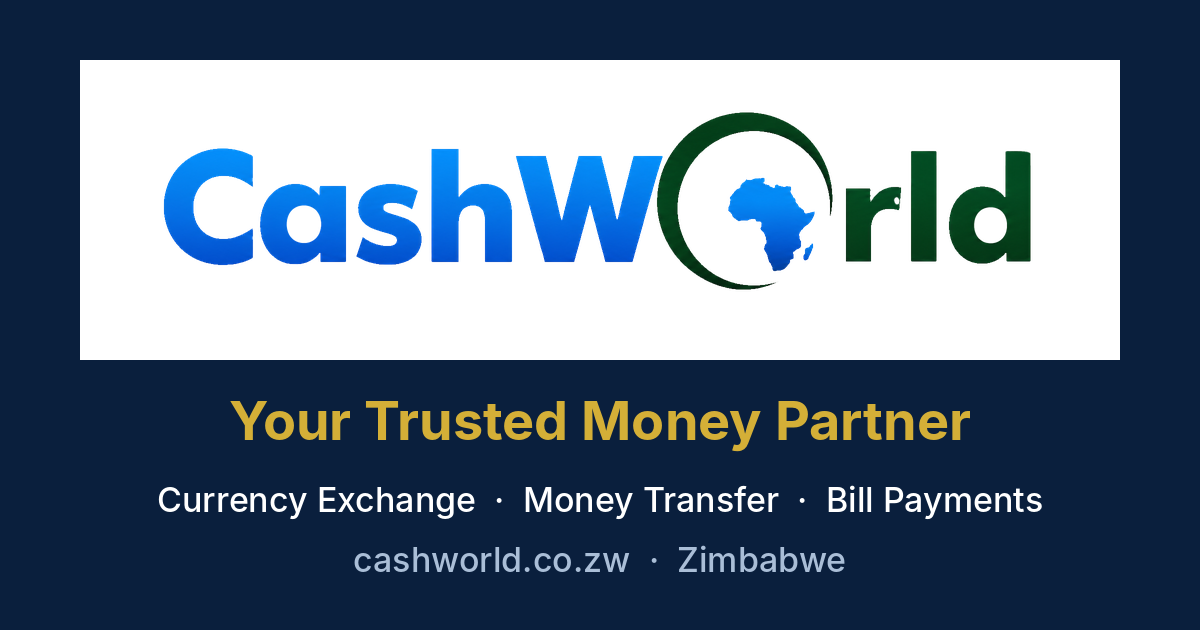
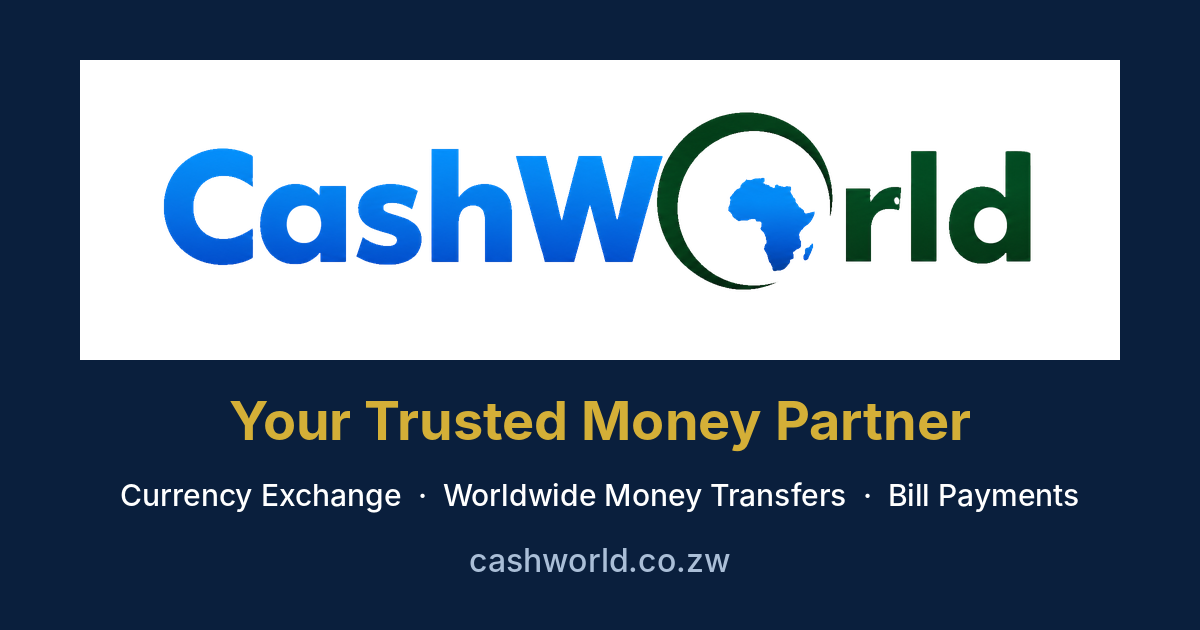
Emphasise worldwide money transfers in titles, descriptions, structured data and share image
Claude-Session: https://claude.ai/code/session_015KNsuHcSspPMLdgt8D9UBE

Changed region(s): [[0.0925, 0.754, 0.8942, 0.8143], [0.2775, 0.8444, 0.7092, 0.9048]]

diff --git a/index.html b/index.html
@@ -21,16 +21,16 @@
 <link rel="canonical" href="https://www.cashworld.co.zw/">
 <meta property="og:type" content="website">
 <meta property="og:site_name" content="Cash World">
-<meta property="og:title" content="Cash World | Currency Exchange &amp; Money Transfer in Zimbabwe">
-<meta property="og:description" content="Exchange currency, send and receive money, pay bills and get insurance at Cash World, a trusted bureau de change with branches across Zimbabwe.">
+<meta property="og:title" content="Cash World | Currency Exchange &amp; Worldwide Money Transfer">
+<meta property="og:description" content="Currency exchange, worldwide money transfers, bill payments and insurance at Cash World, a trusted Zimbabwean bureau de change with branches across the country.">
 <meta property="og:url" content="https://www.cashworld.co.zw/">
 <meta property="og:image" content="https://www.cashworld.co.zw/images/og-image.png">
 <meta name="twitter:card" content="summary_large_image">
 <meta name="twitter:image" content="https://www.cashworld.co.zw/images/og-image.png">
-<script type="application/ld+json">{"@context": "https://schema.org", "@type": "FinancialService", "@id": "https://www.cashworld.co.zw/#business", "name": "Cash World", "alternateName": ["CashWorld", "Cashworld Bureau"], "url": "https://www.cashworld.co.zw/", "logo": "https://www.cashworld.co.zw/icon-512.png", "image": "https://www.cashworld.co.zw/images/og-image.png", "description": "Bureau de change and money transfer business in Zimbabwe offering currency exchange, money transfer, bill payments and insurance services.", "slogan": "Your Trusted Money Partner", "telephone": "+263242753437", "email": "admin@cashworld.co.zw", "address": {"@type": "PostalAddress", "streetAddress": "130, 2nd Avenue, Showgrounds", "addressLocality": "Harare", "addressCountry": "ZW"}, "areaServed": {"@type": "Country", "name": "Zimbabwe"}, "sameAs": ["https://www.facebook.com/profile.php?id=61559407846797", "https://www.instagram.com/cas.hworld", "https://www.tiktok.com/@cashworldmoneytransfer"], "hasOfferCatalog": {"@type": "OfferCatalog", "name": "Cash World services", "itemListElement": [{"@type": "Offer", "itemOffered": {"@type": "Service", "name": "Currency Exchange", "description": "Buy and sell major currencies at competitive, transparent rates."}}, {"@type": "Offer", "itemOffered": {"@type": "Service", "name": "Money Transfer", "description": "Send or collect money locally and internationally through trusted partners."}}, {"@type": "Offer", "itemOffered": {"@type": "Service", "name": "Bill Payments", "description": "Pay utilities, airtime and other bills at our branches."}}, {"@type": "Offer", "itemOffered": {"@type": "Service", "name": "Insurance Services"}}]}}</script>
+<script type="application/ld+json">{"@context": "https://schema.org", "@type": "FinancialService", "@id": "https://www.cashworld.co.zw/#business", "name": "Cash World", "alternateName": ["CashWorld", "Cashworld Bureau"], "url": "https://www.cashworld.co.zw/", "logo": "https://www.cashworld.co.zw/icon-512.png", "image": "https://www.cashworld.co.zw/images/og-image.png", "description": "Zimbabwean bureau de change and money transfer business offering currency exchange, worldwide money transfers, bill payments and insurance services.", "slogan": "Your Trusted Money Partner", "telephone": "+263242753437", "email": "admin@cashworld.co.zw", "address": {"@type": "PostalAddress", "streetAddress": "130, 2nd Avenue, Showgrounds", "addressLocality": "Harare", "addressCountry": "ZW"}, "areaServed": [{"@type": "Country", "name": "Zimbabwe"}, {"@type": "Place", "name": "Worldwide"}], "sameAs": ["https://www.facebook.com/profile.php?id=61559407846797", "https://www.instagram.com/cas.hworld", "https://www.tiktok.com/@cashworldmoneytransfer"], "hasOfferCatalog": {"@type": "OfferCatalog", "name": "Cash World services", "itemListElement": [{"@type": "Offer", "itemOffered": {"@type": "Service", "name": "Currency Exchange", "description": "Buy and sell major currencies at competitive, transparent rates."}}, {"@type": "Offer", "itemOffered": {"@type": "Service", "name": "Money Transfer", "description": "Send or receive money worldwide, locally and internationally, through trusted partners."}}, {"@type": "Offer", "itemOffered": {"@type": "Service", "name": "Bill Payments", "description": "Pay utilities, airtime and other bills at our branches."}}, {"@type": "Offer", "itemOffered": {"@type": "Service", "name": "Insurance Services"}}]}}</script>
 <script type="application/ld+json">{"@context": "https://schema.org", "@type": "WebSite", "name": "Cash World", "url": "https://www.cashworld.co.zw/"}</script>
-<title>Cash World | Currency Exchange & Money Transfer in Zimbabwe</title>
-<meta name="description" content="Exchange currency, send and receive money, pay bills and get insurance at Cash World, a trusted bureau de change with branches across Zimbabwe.">
+<title>Cash World | Currency Exchange & Worldwide Money Transfer</title>
+<meta name="description" content="Currency exchange, worldwide money transfers, bill payments and insurance at Cash World, a trusted Zimbabwean bureau de change with branches across the country.">
 <link rel="preconnect" href="https://fonts.googleapis.com">
 <link rel="preconnect" href="https://fonts.gstatic.com" crossorigin>
 <link href="https://fonts.googleapis.com/css2?family=Fraunces:opsz,wght@9..144,600;9..144,700&family=Inter:wght@400;500;600;700&display=swap" rel="stylesheet">
@@ -62,9 +62,9 @@
 <section class="hero">
   <div class="wrap hero-grid">
     <div>
-      <span class="eyebrow" style="color:var(--gold)">Currency Exchange · Money Transfer · Bill Payments · Insurance</span>
+      <span class="eyebrow" style="color:var(--gold)">Currency Exchange · Worldwide Money Transfers · Bill Payments · Insurance</span>
       <h1>Your <em>Trusted</em> Money Partner, across Zimbabwe.</h1>
-      <p class="lead">Exchange currency, send and receive money, and pay your bills in minutes. Fair rates, friendly service and 8 branches near you.</p>
+      <p class="lead">Exchange currency, send and receive money anywhere in the world, and pay your bills in minutes. Fair rates, friendly service and 8 branches near you.</p>
       <p class="hero-status"><span class="live-pill" data-open-status></span></p>
       <div class="hero-cta">
         <a class="btn btn-gold" href="#rates">Convert currency →</a>

diff --git a/services.html b/services.html
@@ -22,13 +22,13 @@
 <meta property="og:type" content="website">
 <meta property="og:site_name" content="Cash World">
 <meta property="og:title" content="Services | Cash World">
-<meta property="og:description" content="Currency exchange, money transfer, bill payments and agent banking at Cash World.">
+<meta property="og:description" content="Currency exchange, worldwide money transfers, bill payments, insurance and agent banking at Cash World.">
 <meta property="og:url" content="https://www.cashworld.co.zw/services.html">
 <meta property="og:image" content="https://www.cashworld.co.zw/images/og-image.png">
 <meta name="twitter:card" content="summary_large_image">
 <meta name="twitter:image" content="https://www.cashworld.co.zw/images/og-image.png">
 <title>Services | Cash World</title>
-<meta name="description" content="Currency exchange, money transfer, bill payments and agent banking at Cash World.">
+<meta name="description" content="Currency exchange, worldwide money transfers, bill payments, insurance and agent banking at Cash World.">
 <link rel="preconnect" href="https://fonts.googleapis.com">
 <link rel="preconnect" href="https://fonts.gstatic.com" crossorigin>
 <link href="https://fonts.googleapis.com/css2?family=Fraunces:opsz,wght@9..144,600;9..144,700&family=Inter:wght@400;500;600;700&display=swap" rel="stylesheet">
@@ -74,7 +74,7 @@
     </div>
     <div class="grid-4 svc-grid">
       <div class="card reveal"><div class="icon">💱</div><h3>Currency Exchange</h3><p>Buy and sell major currencies at competitive, transparent rates with no hidden fees.</p></div>
-      <div class="card reveal"><div class="icon">🌍</div><h3>Money Transfer</h3><p>Send or collect money locally and internationally through trusted global partners.</p></div>
+      <div class="card reveal"><div class="icon">🌍</div><h3>Money Transfer</h3><p>Send or collect money worldwide, locally and internationally, through trusted global partners.</p></div>
       <div class="card reveal"><div class="icon">🛡</div><h3>Insurance Services&nbsp;</h3>
       <p>We offer FBC Insurance services and ZINARA motor vehicle licences&nbsp;&nbsp;</p>
       </div>
